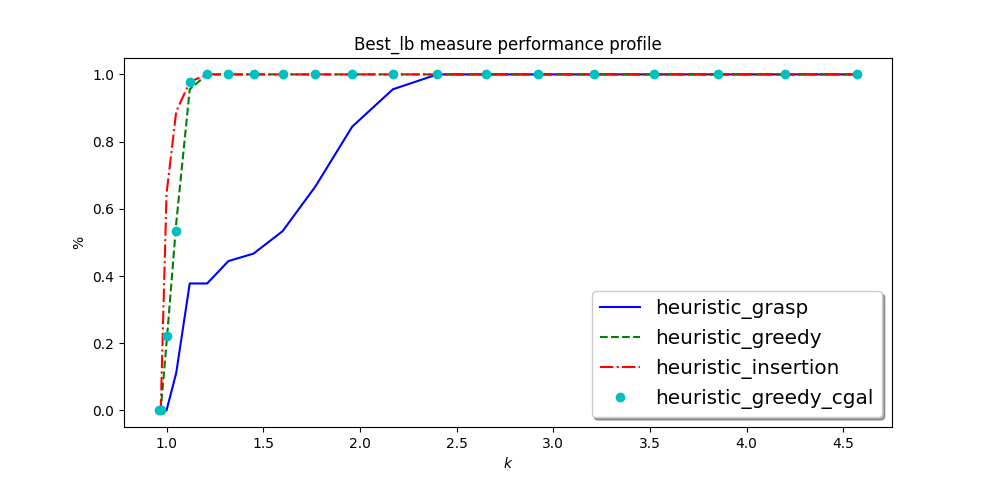
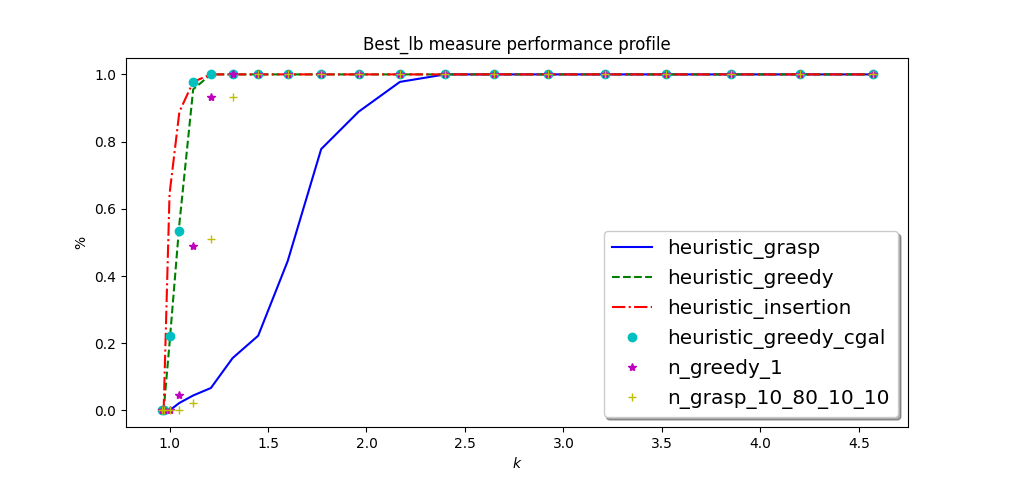
best grasp and update png

diff --git a/tsp.c b/tsp.c
@@ -906,7 +906,7 @@ int switch_warm_start(tspinstance* inst, CPXENVptr env, CPXLPptr lp, int* status
 		break;
 
 		case 6:													// Heuristic GRASP N_TIMES
-			n_grasp(inst, status, (inst->nnodes < 1000) ? 10 : (inst->nnodes > 10000) ? 2 : 5, .8, .1);			// nnodes: < 1000 = 10 times - 1000:5000 = 5 times - >5000 = 2 times
+			n_grasp(inst, status, (inst->nnodes < 1000) ? 10 : (inst->nnodes > 10000) ? 2 : 5, .95, .03);			// nnodes: < 1000 = 10 times - 1000:5000 = 5 times - >5000 = 2 times
 		break;
 
 		default:
